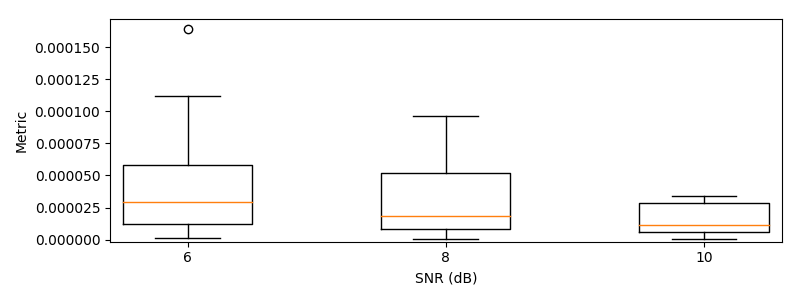
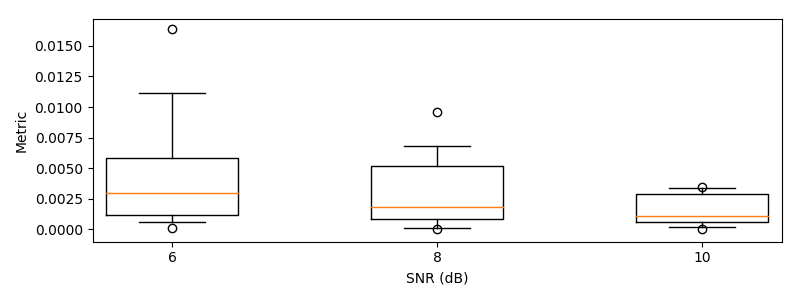
Update snr_boxplot interface
I decided to change how snr_boxplot is used so that the user may use
different options for the same samples drawn from the model without
doubling the runtime of the analysis. Now snr_boxplot accepts the
output of snr_sweep and acts as a dumb plotting function.

diff --git a/fitkit/datasheet.py b/fitkit/datasheet.py
@@ -70,25 +70,29 @@ def snr_sweep(pm1d, x, metric, snrs, N, **callkwargs):
 
     return pd.concat(tables, ignore_index = True)
 
-def snr_boxplot(pm1d, x, metric, snrs, N, **callkwargs):
+def snr_boxplot(dataset, **boxkwargs):
     """ plot the distribution of metric values vs snr as a series of box plots
 
-    Args:   same as datasheet.snr_sweep
+    Args:
+        dataset:    the output from snr_sweeep
+        boxkwargs:  keyword arguments for the boxplot. 'positions', 'widths',
+                    and 'whis' will be overwritten
     """
-    dataset = snr_sweep(pm1d, x, metric, snrs, N)
-
     # subdivide the data
+    snrs = dataset.snr.unique()
     folded = np.array([dataset[dataset.snr == snr].metric.values for snr in snrs])
 
     w = np.diff(snrs).min()/2
-    plt.boxplot(folded.T, positions = snrs, widths = len(snrs)*[w])
+    boxkwargs['positions'] = snrs
+    boxkwargs['widths'] = len(snrs)*[w]
+    boxkwargs['whis'] = [5, 95]
+    plt.boxplot(folded.T, **boxkwargs)
+
     plt.xlabel('SNR (dB)')
     plt.ylabel('Metric')
-    plt.ylim(-1e-2*dataset.metric.max())
+    plt.ylim(-1e-3)
     plt.xlim(np.min(snrs) - .6*w, np.max(snrs) + .6*w)
     plt.tight_layout()
-
-    return dataset
 
 def percentage_error_metric_creator(parameter, fitter, fitter_kwargs = {}):
     """ returns a metric that measures the percentage error in a parameter fit

diff --git a/example/example.py b/example/example.py
@@ -71,7 +71,8 @@ plt.show()
 # suppose we want to see how well we fit the frequency parameter omega
 def metric(sig1d, mdata):
     fit_mdata = pm.fit(sig1d, method = 'shgo', opts = opts)
-    percent = np.abs(fit_mdata['parameters']['omega'] - mdata['omega'])/mdata['omega']
+    estimated = fit_mdata.parameters['omega']
+    percent = 100*np.abs(estimated - mdata['omega'])/mdata['omega']
     return percent, fit_mdata
 
 table = apply_metric_to(sample(pm, 3, t, snr = 8), metric)
@@ -79,6 +80,7 @@ print(table.metric)
 
 # often we want to see how well we fit a paramter as a function of the snr (in dB).
 # fitkit makes this easy
-snr_boxplot(pm, t, metric, [6, 8, 10], 12)
+table = snr_sweep(pm, t, metric, [6, 8, 10], 12)
+snr_boxplot(table)
 plt.savefig('snr_boxplot.png')
 plt.show()

diff --git a/test/test_datasheet.py b/test/test_datasheet.py
@@ -63,7 +63,8 @@ def test_snr_boxplot(model):
     fig, axes = plt.subplots()
     plt.sca(axes)
 
-    data = snr_boxplot(model, x, dummy_metric, [12, 15, 18, 21], 100)
+    table = snr_sweep(model, x, dummy_metric, [15, 20], 4)
+    data = snr_boxplot(table)
 
     fig.tight_layout()
     plt.show()

diff --git a/README.md b/README.md
@@ -104,7 +104,8 @@ as a percentage of the true value:
 ```python
 def metric(sig1d, mdata):
     fit_mdata = pm.fit(sig1d, method = 'shgo', opts = opts)
-    percent = np.abs(fit_mdata['parameters']['omega'] - mdata['omega'])/mdata['omega']
+    estimated = fit_mdata.parameters['omega']
+    percent = 100*np.abs(estimated - mdata['omega'])/mdata['omega']
     return percent, fit_mdata
 
 table = apply_metric_to(sample(pm, 3, t, snr = 8), metric)
@@ -120,7 +121,8 @@ Name: metric, dtype: float64
 
 Inspecting the performance of this metric as a function of `snr` is as simple as:
 ```python
-snr_boxplot(pm, t, metric, [6, 8, 10], 12)
+table = snr_sweep(pm, t, metric, [6, 8, 10], 12)
+snr_boxplot(table)
 ```
 ![alt text](example/snr_boxplot.png)
 
